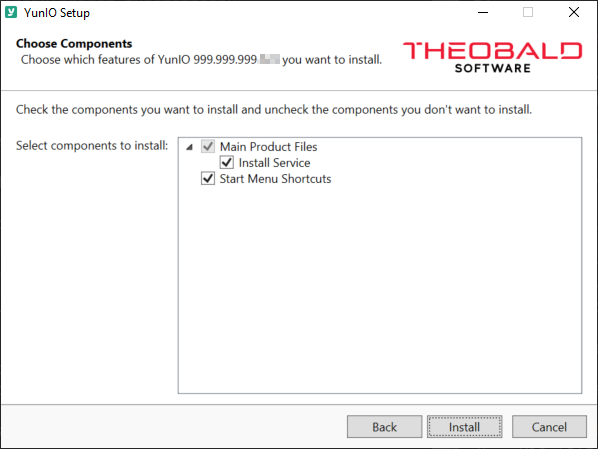
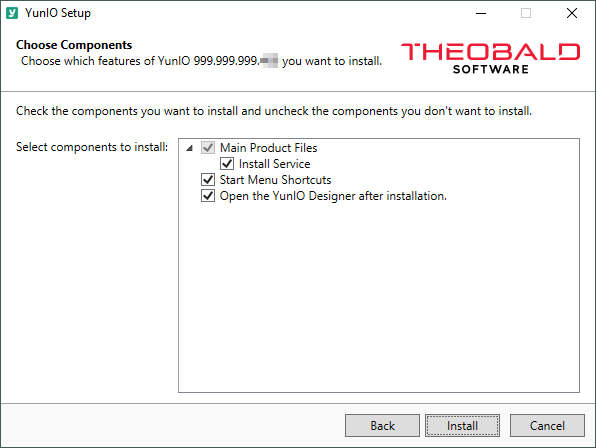
installation updated

diff --git a/_includes/_tech/index.html b/_includes/_tech/index.html
@@ -44,7 +44,7 @@
                     </div>
                     <div style="padding:1rem 0 2rem 0;">
                         <a class="productgrid-title" style="color:#2c2728;" href="/{{ include.lang }}/xtract-is/">Xtract IS</a>
-                        <p>{{ site.language[include.lang].homepage-xtract-is }} <br> <a href="/{{ include.lang }}/xtract-is/">{{ site.language[include.lang].homepage-product-link-text }}</a></p>
+                        <p>{{ site.language[include.lang].homepage-xtract-is }} </p>
                     </div>
                 </div>
 
@@ -56,7 +56,7 @@
                     </div>
                     <div style="padding:1rem 0 2rem 0;">
                         <a class="productgrid-title" style="color:#2c2728;" href="/{{ include.lang }}/xtract-is-for-azure/">Xtract IS for Azure</a>
-                        <p>{{ site.language[include.lang].homepage-xtract-is-for-azure }} <br> <a href="/{{ include.lang }}/xtract-is-for-azure/">{{ site.language[include.lang].homepage-product-link-text }}</a></p>
+                        <p>{{ site.language[include.lang].homepage-xtract-is-for-azure }} </p>
                     </div>
                 </div>
 
@@ -68,7 +68,7 @@
                     </div>
                     <div style="padding:1rem 0 2rem 0;">
                         <a class="productgrid-title" style="color:#2c2728;" href="/{{ include.lang }}/xtract-universal/">Xtract Universal</a>
-                        <p>{{ site.language[include.lang].homepage-xtract-universal }} <br> <a href="/{{ include.lang }}/xtract-universal/">{{ site.language[include.lang].homepage-product-link-text }}</a></p>
+                        <p>{{ site.language[include.lang].homepage-xtract-universal }} </p>
                     </div>
                 </div>
 
@@ -80,7 +80,7 @@
                     </div>
                     <div style="padding:1rem 0 2rem 0;">
                         <a class="productgrid-title" style="color:#2c2728;" href="/{{ include.lang }}/xtract-for-alteryx/">Xtract for Alteryx</a>
-                        <p>{{ site.language[include.lang].homepage-xtract-for-alteryx }} <br> <a href="/{{ include.lang }}/xtract-for-alteryx/">{{ site.language[include.lang].homepage-product-link-text }}</a></p>
+                        <p>{{ site.language[include.lang].homepage-xtract-for-alteryx }} </p>
                     </div>
                 </div>
 
@@ -92,7 +92,7 @@
                     </div>
                     <div style="padding:1rem 0 2rem 0;">
                         <a class="productgrid-title" style="color:#2c2728;" href="/{{ include.lang }}/board-connector/">Board Connector</a>
-                        <p>{{ site.language[include.lang].homepage-board-connector }} <br> <a href="/{{ include.lang }}/board-connector/">{{ site.language[include.lang].homepage-product-link-text }}</a></p>
+                        <p>{{ site.language[include.lang].homepage-board-connector }} </p>
                     </div>
                 </div>
 
@@ -104,7 +104,7 @@
                     </div>
                     <div style="padding:1rem 0 2rem 0;">
                         <a class="productgrid-title" style="color:#2c2728;" href="/{{ include.lang }}/xtract-rs/">Xtract RS</a>
-                        <p>{{ site.language[include.lang].homepage-xtract-rs }} <br> <a href="/{{ include.lang }}/xtract-rs/">{{ site.language[include.lang].homepage-product-link-text }}</a></p>
+                        <p>{{ site.language[include.lang].homepage-xtract-rs }} </p>
                     </div>
                 </div>
 
@@ -116,7 +116,7 @@
 						</div>
 						<div style="padding:1rem 0 2rem 0;">
 						<a class="productgrid-title" style="color:#2c2728;" href="/{{ include.lang }}/yunio/">yunIO</a>
-                        <p>{{ site.language[include.lang].homepage-yunio }} <br> <a href="/{{ include.lang }}/yunio/">{{ site.language[include.lang].homepage-product-link-text }}</a></p>
+                        <p>{{ site.language[include.lang].homepage-yunio }} </p>
                     </div>
                 </div>
 					
@@ -128,7 +128,7 @@
                     </div>
                     <div style="padding:1rem 0 2rem 0;">
                         <a class="productgrid-title" style="color:#2c2728;" href="/{{ include.lang }}/ecs-core/">ECS Core</a>
-                        <p>{{ site.language[include.lang].homepage-ecs-core }} <br> <a href="/{{ include.lang }}/ecs-core/">{{ site.language[include.lang].homepage-product-link-text }}</a></p>
+                        <p>{{ site.language[include.lang].homepage-ecs-core }} </p>
                     </div>
                 </div>
 
@@ -140,7 +140,7 @@
                     </div>
                     <div style="padding:1rem 0 2rem 0;">
                         <a class="productgrid-title" style="color:#2c2728;" href="/{{ include.lang }}/erpconnect-services/">ERPConnect Services</a>
-                        <p>{{ site.language[include.lang].homepage-erpconnect-services }} <br> <a href="/{{ include.lang }}/erpconnect-services/">{{ site.language[include.lang].homepage-product-link-text }}</a></p>
+                        <p>{{ site.language[include.lang].homepage-erpconnect-services }} </p>
                     </div>
                 </div>
 
@@ -152,7 +152,7 @@
                     </div>
                     <div style="padding:1rem 0 2rem 0;">
                         <a class="productgrid-title" style="color:#2c2728;" href="/{{ include.lang }}/erpconnect/">ERPConnect</a>
-                        <p>{{ site.language[include.lang].homepage-erpconnect }} <br> <a href="/{{ include.lang }}/erpconnect/">{{ site.language[include.lang].homepage-product-link-text }}</a></p>
+                        <p>{{ site.language[include.lang].homepage-erpconnect }} </p>
                     </div>
                 </div>
             </section>

diff --git a/content/_en/yunio/introduction/license.md b/content/_en/yunio/introduction/license.md
@@ -13,36 +13,31 @@ progressstate: 5
 ---
 ### About the licensing concept of yunIO
 
-yunIO is licensed per target environment, source system and Windows server. <br>
-The following graphic shows the on which workstations the installation of yunIO with a valid license required.   
+yunIO is licensed per source system and Windows server.
+A demo license is automatically installed with the installation of yunIO.
 
-![client-server-archi](/img/content/xu/client_server_architektur_xu.png){:class="img-responsive"}
-
-A demo license is automatically installed with the installation of yunIO.<br>
-A regular license is provided in the [costumer portal - My Theobald Software](https://my.theobald-software.com/) after purchasing the product. The product license is bound to your company and the server on which the yunIO server runs.<br>
+A regular license is provided in the [costumer portal - My Theobald Software](https://my.theobald-software.com/) after purchasing the product. 
+The product license is bound to your company and the server on which the yunIO server runs.<br>
  
 
 ### Installing the yunIO license - yunIOLicense.json
 For installing the regular license, place the regular yunIOLicense.json into the following directory of the server: <br>
-`C:\Program Files\Theobald Software\yunIO`
- <br>
- ![XU_license](/img/content/xu/xu_json_license.png ){:class="img-responsive"}
- 
+`C:\Program Files\Theobald Software\YunIO`
+
 A restart of the yunIO service is not necessary.
 
 ### About yunIO - Info Menu
 
 {: .box-tip }
-**Tip:** To inspect your current license data, go to the main menu of yunIO and navigate to **[About].
+**Tip:** To inspect your current license data, go to the main menu of yunIO and navigate to **[About]**. The version number is displayed next to the page title.
 
 The *About* menu also provides direct links to the following Theobald Software support pages:
 - Customer Portal
 - Online Help
 - Knowledge Base
 - Support
-- Ticket System
 
-![Demo_License](/img/content/xu/xu_demo_license.png){:class="img-responsive"}
+![Demo_License](/img/content/yunio/About.png){:class="img-responsive"}
 
 ### Maintenance
 General information on maintenance pricing is available on the [official website - link is coming soon](coming soon) of Theobald Software and at [My Theobald Software - Portal for Customers and Partners](https://my.theobald-software.com/). 

diff --git a/content/_de/yunio/einfuehrung/lizenz.md b/content/_de/yunio/einfuehrung/lizenz.md
@@ -13,29 +13,31 @@ progressstate: 5
 ---
 
 ### Über das Lizenzierungskonzept von yunIO
-yunIO wird pro Zielumgebung, Quellsystem und Windows Server lizenziert. <br>
-Die folgende Grafik zeigt, auf welchen Arbeitsplätzen die Installation von yunIO mit einer gültigen Lizenz erforderlich ist.
- 
-![client-server-archi](/img/content/xu/client_server_architektur_xu.png){:class="img-responsive"}
+yunIO wird pro Quellsystem und Windows Server lizenziert. Eine Demo-Lizenz wird automatisch mit der Installation von yunIO installiert. 
 
-Eine Demo-Lizenz wird automatisch mit der Installation von yunIO installiert. <br>
 Eine reguläre Lizenz wird nach dem Kauf des Produkts im [Kundenportal - My Theobald Software](https://my.theobald-software.com/) zur Verfügung gestellt. 
 Die Lizenz ist an Ihre Entität und einen bestimmten Servernamen gebunden.<br>
 Wenn Sie den yunIO Designer und den yunIO Server auf verschiedenen Rechnern betreiben, muss nur die Demo-Serverlizenz, durch eine reguläre Lizenz ersetzt werden.
  
-### Installieren von yunIO Lizenz - XtractUniversalLicense.json
-Um die reguläre Lizenz zu installieren, legen Sie die XtractUniversalLicense.json-Datei in das folgende Programm-Verzeichnis des Servers ab:
-`C:\Program Files\XtractUniversal` <br>
- ![XU_license](/img/content/xu/xu_json_license.png ){:class="img-responsive"}
+### Installieren von yunIO Lizenz - YunIOLicense.json
+Um die reguläre Lizenz zu installieren, legen Sie die YunIOLicense.json-Datei in das folgende Programm-Verzeichnis des Servers ab:
+`C:\Program Files\Theobald Software\YunIO` <br>
 
 Ein Neustart des yunIO Service ist nicht notwendig.
 
 ### About yunIO - Info-Fenster
 
 {: .box-tip }
-**Tipp:** Um Ihre aktuellen Lizenzdaten einzusehen, wählen Sie in der Hauptmenüleiste vom yunIO Designer  **[Help] > [Info]** oder drücken Sie F12.<br>
+**Tipp:** Um Ihre aktuellen Lizenzdaten einzusehen, wählen Sie in der Hauptmenüleiste des yunIO Designers **[About]**.
+Die Versionsnummer wird Ihnen rechts neben dem Seitentitel angezeigt.<br>
 
-![Demo_License](/img/content/xu/xu_demo_license.png){:class="img-responsive"}
+Das *About* Menü von yunIO stellt Direktlinks zu folgenden Theobald Software Support-Seiten zur Verfügung:
+- Kundenportal
+- Online Hilfe
+- Knowledge Base
+- Support
+
+![Demo_License](/img/content/yunio/About.png){:class="img-responsive"}
 
 
 ### Wartung

diff --git a/content/_de/yunio/einfuehrung/installation-und-update.md b/content/_de/yunio/einfuehrung/installation-und-update.md
@@ -29,7 +29,8 @@ Beim Starten des Setups können die optionalen Komponenten für die Installation
 |:----|:---| :---|
 |Main Product Files | |Installiert alle notwendigen Dateien, die zum Verwenden von yunIO notwendig sind.|
 |<!----> | Install Service |Installiert die Serverkomponente als Windows-Service. Mehr Details im Abschnitt [Server Starten](../server/server-starten) |
-|Start Menu Shortcuts | Komponente, die dem Startmenü Verknüpfungen hinzufügt.|
+|Start Menu Shortcuts |- | Komponente, die dem Startmenü Verknüpfungen hinzufügt.|
+|Open the yunIO Designer after installation|- | Öffnet nach der Installation den yunIO Designer in Ihrem Standard-Browser.|
 
 Die Installationsschritte werden im Abschnitt [Lizenz](./lizenz) beschrieben.
 

diff --git a/content/_en/yunio/introduction.md b/content/_en/yunio/introduction.md
@@ -16,7 +16,7 @@ progressstate: 5
 yunIO is a connector that provides .json based web services to write data to and from a connected SAP system. <br>
 The web services can be easily integrated into your workflow e.g., into Power Automate, Nintex, Swagger, etc.
 
-![yunIO-Components](/img/content/xu/xu_components.png){:class="img-responsive" width="800px" }
+![yunIO-Components](/img/content/yunio/theobald-software_architecture_yunio.png){:class="img-responsive" width="800px" }
 
 *****
 The following sections include information about the requirements and the installation of yunIO:

diff --git a/content/_en/yunio/introduction/installation-and-update.md b/content/_en/yunio/introduction/installation-and-update.md
@@ -31,6 +31,7 @@ When starting the setup, components can be selected during the installation.
 |Main Product Files | | All required files to use yunIO. |
 |<!---->| Install Service| Installs the server component as a windows service. See also section [Start Server](../server/start-server). |
 |Start Menu Shortcuts |- |Component that adds shortcuts to the start menu.|
+|Open the yunIO Designer after installation |- |Opens the yunIO Designer in your standard web browser.|
 
 The license installation procedure is described in the section [Installing the license](./license).
 

diff --git a/content/_en/yunio/index.md b/content/_en/yunio/index.md
@@ -25,7 +25,7 @@ The yunIO service is installed on a local or cloud-hosted Windows server environ
 You can access the Web UI via a browser of your choice. <br>
 An Azure Relay registration can be used as a secure gateway to connect the local SAP system to the respective cloud application.
 <!--- ??? trifft das hier zu?--->
-![yunIO-Components](/img/content/xu/xu_components.png){:class="img-responsive" width="800px" }
+![yunIO-Components](/img/content/yunio/theobald-software_architecture_yunio.png){:class="img-responsive" width="800px" }
 
 ### Extraction Types
 
